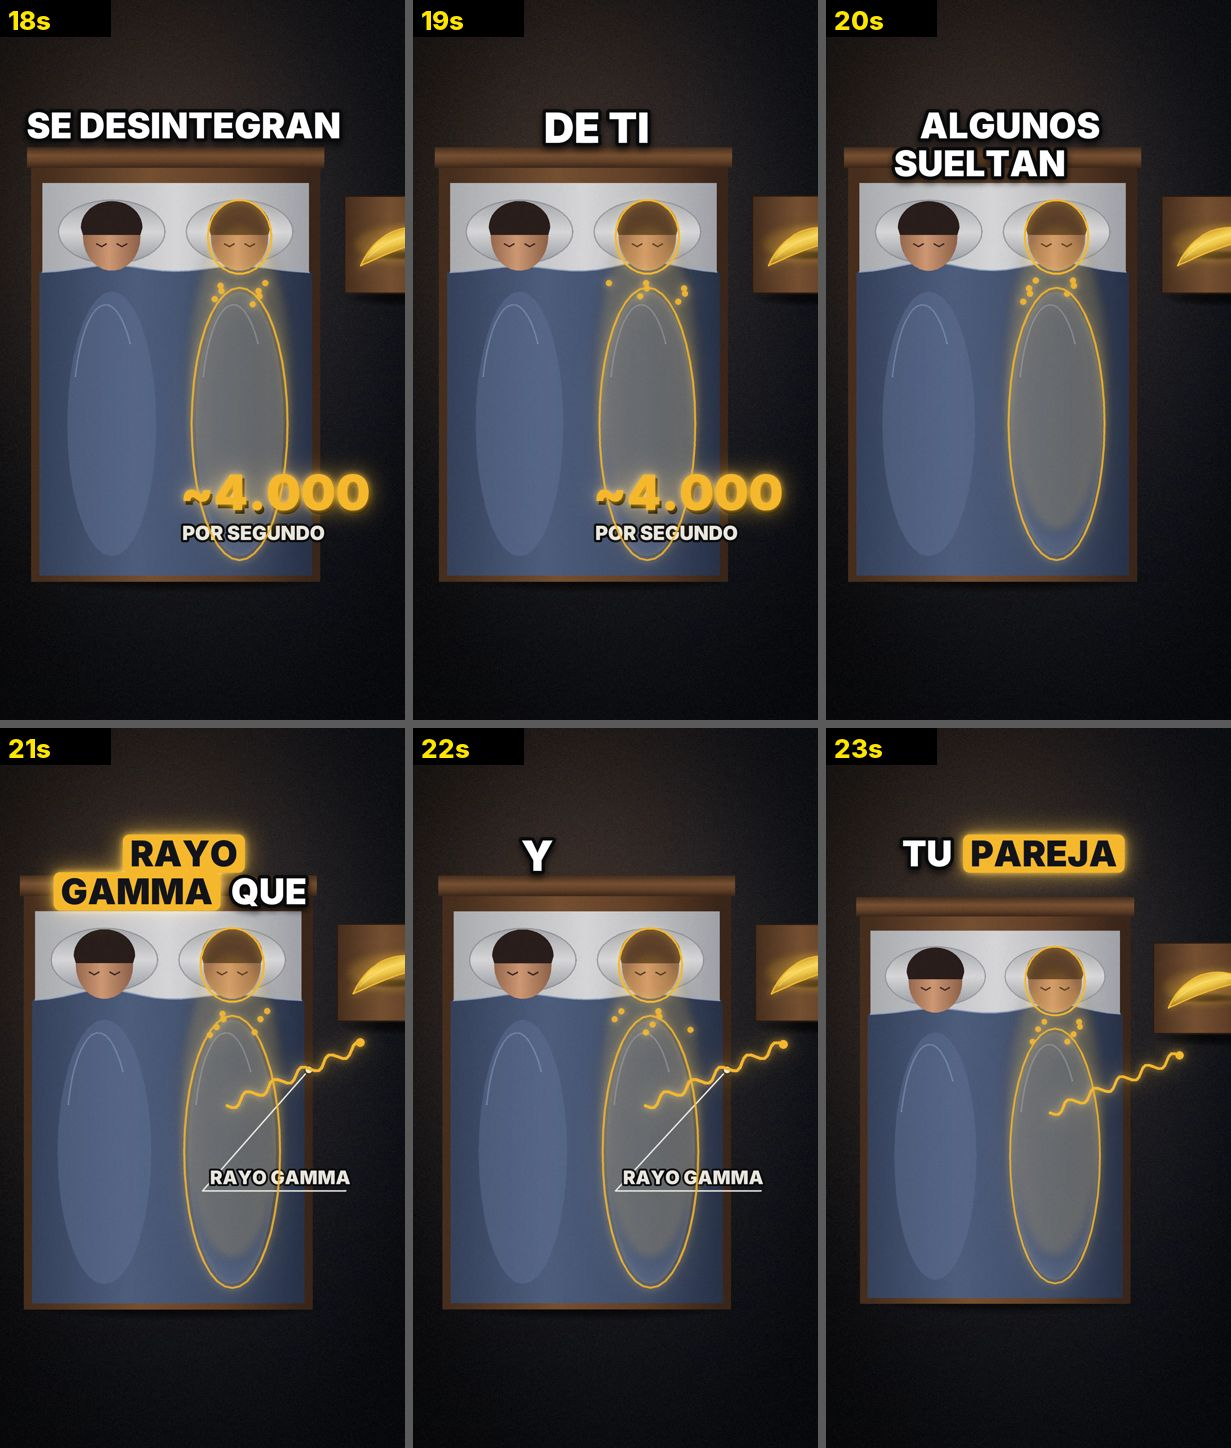
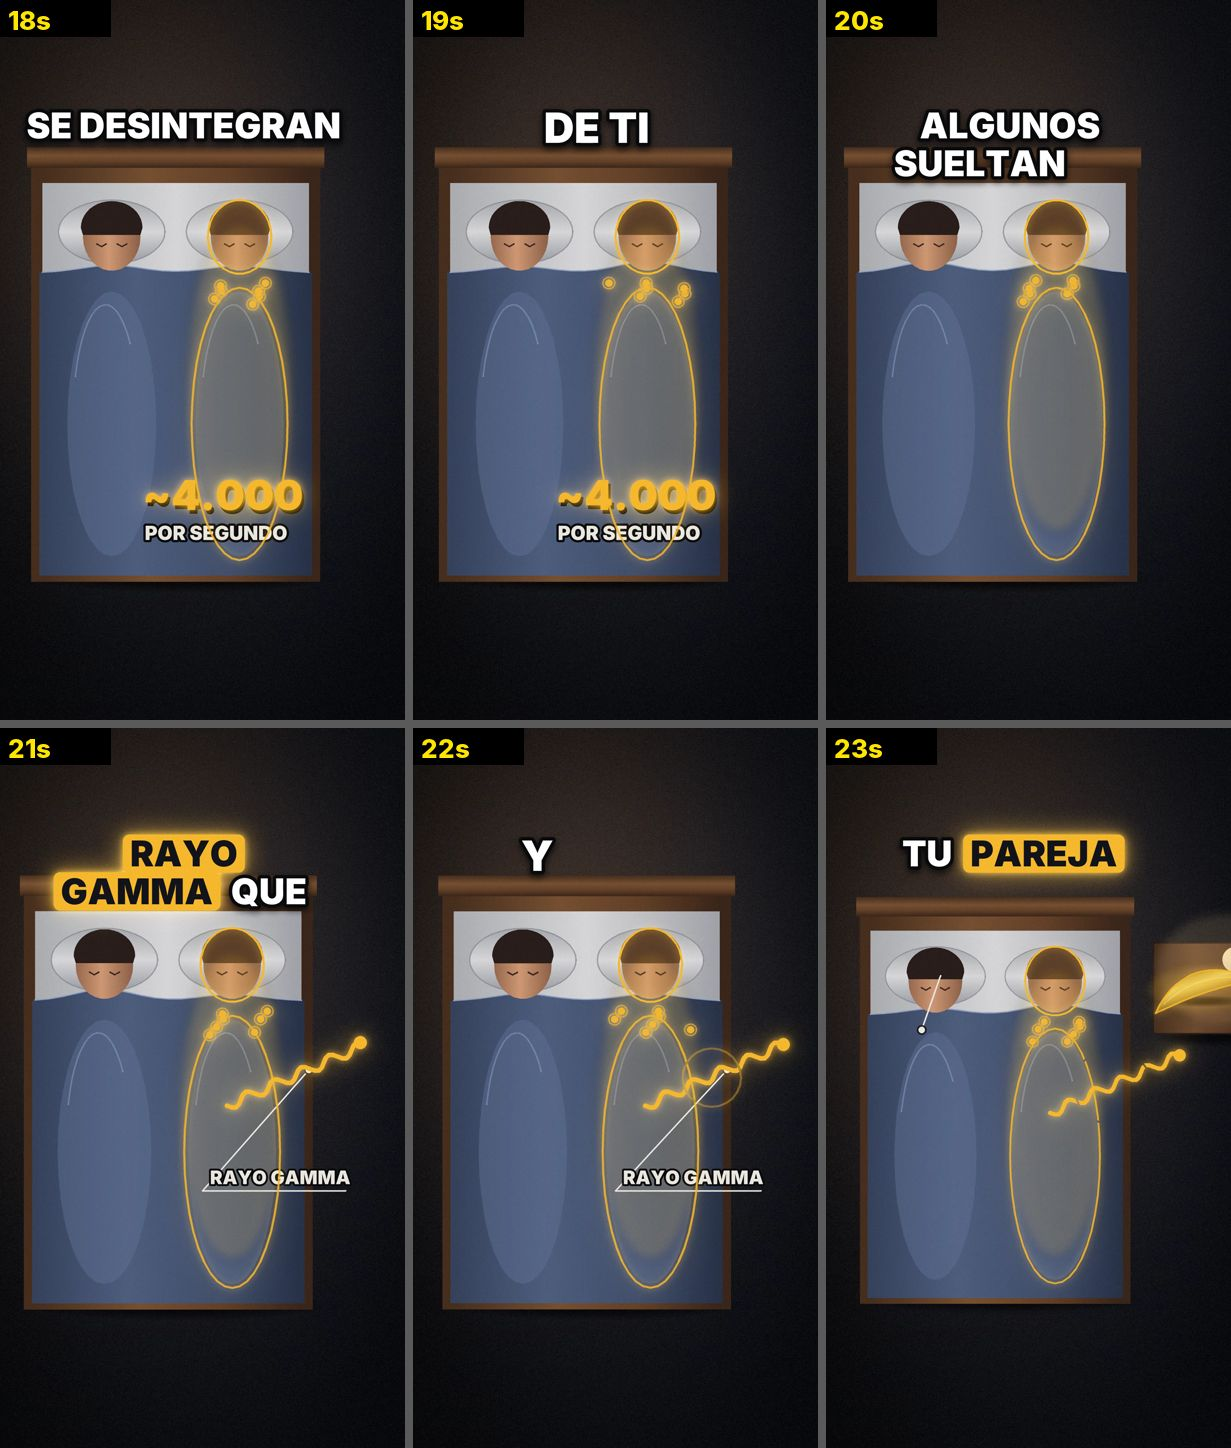
Ep. 17: sugerencias del auditor (CTA con movimiento, cuadro 0 más inclinado, pila de plátanos enteros, zona derecha) y textos de entrega

diff --git a/studio/episodios/ep17-radiacion-pareja/escena2d/video.py b/studio/episodios/ep17-radiacion-pareja/escena2d/video.py
@@ -105,11 +105,11 @@ def inclinacion(t):
     if t < C_CAMA:
         vaiven = 0.05 * math.sin(t * 5.5) * (1 - tr(t, w(6) - 0.3, 0.3))        # dudando: sube y baja
         golpe = 0.10 * K.ease_aterriza(tr(t, w(6), 0.45))                    # en 'irradia' la cama cae de golpe
-        return INC0 - 0.04 + vaiven + golpe
+        return INC0 + 0.03 + vaiven * 0.6 + golpe * 0.7
     if t < C_GIGANTE:                            # P7: una noche pesa menos; en 'le gana' la pila da vuelta la balanza
         return -0.14 + 0.40 * K.ease_aterriza(tr(t, w(107), 0.7))
-    fin = INC0 - 0.04 + 0.05 * math.sin(-0.0 * 5.5)                      # = cuadro 0
-    return fin + 0.05 * math.sin((t - C_LOOP) * 5.5) * (1 - tr(t, DUR - 0.45, 0.45))
+    fin = INC0 + 0.03                                                       # = cuadro 0
+    return fin + 0.03 * math.sin((t - C_LOOP) * 5.5) * (1 - tr(t, DUR - 0.45, 0.45))
 
 
 def plano_balanza(t, sem):
@@ -173,7 +173,12 @@ def plano_cama(t, sem):
     # P4: empuje lento al cuerpo de la izquierda mientras se explica por dentro; P5 vuelve
     k = eo(tr(t, w(46), 0.9)) * (1 - eo(tr(t, w(70), 0.9)))
     cuerpo = (CX + CW * 0.24, CY - CH / 2 + 420)          # TÚ (derecha)
-    L.camara(s=1.0 + 0.32 * k, ancla=cuerpo, destino=(cuerpo[0] + 120 * k, cuerpo[1] - 60 * k))
+    if gigante:                                          # el remate y el CTA: acercamiento lento a la pareja-plátano
+        kg = eo(tr(t, w(116), C_LOOP - w(116)))
+        pg_ = (CX, CY - 60)
+        L.camara(s=1.0 + 0.22 * kg, ancla=pg_, destino=(pg_[0] + 40 * kg, pg_[1]))
+    else:
+        L.camara(s=1.0 + 0.32 * k, ancla=cuerpo, destino=(cuerpo[0] + 120 * k, cuerpo[1] - 60 * k))
     izq, der = brillo_personas(t)
     if gigante:
         izq, der = 0.35, 1.0
@@ -210,14 +215,14 @@ def plano_cama(t, sem):
     if w(62) <= t < w(84) + 0.3:
         a_ = 1 - es(tr(t, w(84), 0.3))
         p_sale = ee(tr(t, w(62), 0.9))
-        A.rayo(L, (cuerpo[0] - 10, cuerpo[1] - 40), (cuerpo[0] + 260, cuerpo[1] - 160), p_sale, 9, alpha=a_)
+        A.rayo(L, (cuerpo[0] - 10, cuerpo[1] - 40), (cuerpo[0] + 200, cuerpo[1] - 160), p_sale, 9, alpha=a_)
         piel = (cuerpo[0] + 120, cuerpo[1] - 95)
         K.brillo_golpe(L, piel[0], piel[1], t - w(67), 70, 70, 6)
         if t >= w(67):
             fp = tr(t, w(67), 0.5)
             K.linea(L, K.elipse_pts(piel[0], piel[1], 20 + 60 * fp, 20 + 60 * fp, n=24), capa="energia", ancho=4,
                     alpha=(1 - fp) * a_)
-        K.brillo_golpe(L, cuerpo[0] + 260, cuerpo[1] - 160, t - w(69), 90, 90, 6)
+        K.brillo_golpe(L, cuerpo[0] + 200, cuerpo[1] - 160, t - w(69), 90, 90, 6)
         punta_rayo = _pant(L, (cuerpo[0] + 150, cuerpo[1] - 110))
         if t >= w(76):
             otro = (CX - CW * 0.24, CY - CH / 2 + 380)
@@ -228,6 +233,11 @@ def plano_cama(t, sem):
         pg = (CX - CW * 0.24, CY - CH / 2 + 330)
         for tw in (w(123), w(127)):
             K.brillo_golpe(L, pg[0], pg[1], t - tw, 200, 260, 7)
+        if t >= w(119):                                  # el plátano irradia a TÚ: rayos cada ~0,6 s
+            for j in range(3):
+                f = ((t - w(119)) / 0.9 + j / 3) % 1
+                A.rayo(L, (pg[0] + 40, pg[1] - 160 + 150 * j), (CX + CW * 0.24 - 40, pg[1] - 160 + 150 * j), f, 7,
+                       alpha=(1 - f) * 0.9)
     L.camara()
     # etiquetas (sin cámara)
     if not gigante:
@@ -260,7 +270,7 @@ def plano_cama(t, sem):
                 K.numero_heroe(L, "~4.000", "", 380, 1360, 110, t, w(49), alpha=a_n)
             rotulo(L, 386, 1440, "POR SEGUNDO", 52, alpha=ee(tr(t, w(48), 0.3)) * a_n)
         if w(62) <= t < w(70):
-            K.etiqueta(L, "RAYO GAMMA", punta_rayo, (560, 1180), t, w(62) + 0.2, w(70) - 0.3, tam=50, lado="der")
+            K.etiqueta(L, "RAYO GAMMA", punta_rayo, (500, 1180), t, w(62) + 0.2, w(70) - 0.3, tam=50, lado="der")
         # P6: cuánto — reloj de 8 h y 1 NOCHE ≈ 1 PLÁTANO; P6b inofensivo
         if w(84) <= t < w(97) + 0.2:
             a_h = ee(tr(t, w(84), 0.3)) * (1 - es(tr(t, w(97), 0.2)))
@@ -272,7 +282,7 @@ def plano_cama(t, sem):
         if w(96) <= t < C_PILA:
             a_c = 1 - es(tr(t, w(97) + 0.5, 0.3))
             A.check(L, 210, 1530, 110, tr(t, w(96), 0.3), alpha=a_c)
-            rotulo(L, 280, 1556, "INOFENSIVO", 60, alpha=ee(tr(t, w(96), 0.3)) * a_c)
+
         # P7a: un año de noches — las cáscaras se apilan junto a la cama + contador de noches
         if w(98) + 0.15 <= t < C_PILA:
             n = int(min(365, max(1, (t - w(98)) / (w(102) + 0.3 - w(98)) * 365)))
@@ -280,8 +290,7 @@ def plano_cama(t, sem):
             rotulo(L, 644, 1160, "NOCHES", 44)
             k_p = tr(t, w(98), C_PILA - w(98))
             for j in range(int(3 + 16 * k_p)):
-                A.platano(L, 660 + (j * 37) % 180, 1440 - (j // 6) * 26, 110, ang=(j * 53) % 160 - 80, pelado=1.0,
-                          sombra=False)
+                A.platano(L, 660 + (j * 37) % 170, 1450 - (j // 6) * 30, 120, ang=(j * 53) % 160 - 80, sombra=False)
     sub(L, t)
     return L
 

diff --git a/studio/episodios/ep17-radiacion-pareja/escena2d/arte17.py b/studio/episodios/ep17-radiacion-pareja/escena2d/arte17.py
@@ -241,8 +241,7 @@ def balanza(L, cx, cy, inclin=0.12, t=0.0, alpha=1.0, cam=True, brillo_cama=0.0,
     cama_chica(L, lx, ly - 6, 250, alpha=alpha, cam=cam, brillo=brillo_cama)
     for k in range(int(28 * pila)):            # pila de cáscaras ENCIMA de la cama (se ve y pesa)
         ang = (k * 47) % 180 - 90
-        platano(L, lx - 95 + (k * 53) % 190, ly - 90 - (k // 6) * 30, 115, ang=ang, pelado=1.0, alpha=alpha, cam=cam,
-                sombra=False)
+        platano(L, lx - 95 + (k * 53) % 190, ly - 90 - (k // 6) * 30, 115, ang=ang, alpha=alpha, cam=cam, sombra=False)
     if platano_en_cama > 0:
         platano(L, lx + 10, ly - 80, 150, ang=-8, brillo=1.0, alpha=alpha * platano_en_cama, cam=cam, sombra=False)
     torre_enfriamiento(L, rx, ry - 6, 200, alpha=alpha, cam=cam, vapor_t=t)

diff --git a/studio/episodios/ep17-radiacion-pareja/entrega/caption.md b/studio/episodios/ep17-radiacion-pareja/entrega/caption.md
@@ -1,0 +1,31 @@
+# Ep. 17 — textos de publicación
+
+**Título de YouTube (≤ 60):** Radiación: un año con tu pareja vs. una central nuclear
+**Título de TikTok:** Tu pareja te irradia toda la noche
+**madeForKids:** no · **Etiqueta IA:** Instagram y TikTok sí (voz sintética); YouTube no (estilo de dibujo, no realista)
+
+## YouTube (Short)
+Dormir un año al lado de tu pareja te da más radiación que vivir un año junto a una central nuclear. ☢🍌
+Tu cuerpo tiene potasio, y una pizca de ese potasio es radiactiva: cada segundo se desintegran unos cuatro mil átomos dentro de ti y algunos sueltan rayos gamma que salen de tu piel. Una noche juntos es más o menos como comerte un plátano. Inofensivo.
+
+¿Con quién compartes cama (y radiación)? 👇
+
+Fuentes:
+- World Nuclear Association, "Is radiation safe?": https://world-nuclear.org/nuclear-essentials/is-radiation-safe
+- MIT School of Engineering, Ask an Engineer, "Do humans emit radiation?": https://engineering.mit.edu/ask-an-engineer/do-humans-emit-radiation
+- Health Physics Society, "Are our bodies naturally radioactive?": https://hps.org/ate_faq/faqradbods/
+- Ministerio del Medio Ambiente de Japón, "Basic information on radiation" (2018), p. 70: https://www.env.go.jp/en/chemi/rhm/basic-info/2018/pdf/basic-1st-02-05-10.pdf
+- Discover Magazine, "Everything emits radiation — even you": https://www.discovermagazine.com/everything-emits-radiation-even-you-1752
+Nota: las cifras por noche varían según la fuente (entre medio plátano y un plátano y medio); el orden es "más o menos un plátano". Es inofensivo.
+
+#radiacion #ciencia #datoscuriosos #pareja #elviejodeldato
+
+## Instagram (Reel) y TikTok
+Un año durmiendo con tu pareja te irradia más que un año junto a una central nuclear. ☢🍌
+Culpa del potasio: tu cuerpo es un poquito radiactivo, igual que un plátano. Inofensivo, pero ahora sabes con quién duermes.
+¿A quién le mandas esto? 👇
+
+#radiacion #ciencia #datoscuriosos #pareja #elviejodeldato
+
+## Primer comentario
+Fuentes: World Nuclear Association ("Is radiation safe?"), MIT School of Engineering (Ask an Engineer), Health Physics Society ("Are our bodies naturally radioactive?"), Ministerio del Medio Ambiente de Japón (2018, p. 70) y Discover Magazine. La comparación es año contra año: dormir todas las noches al lado de alguien contra vivir junto a una central nuclear. Las cifras por noche cambian según la fuente; es inofensivo. ¿Qué quieres que te explique? 🧓
